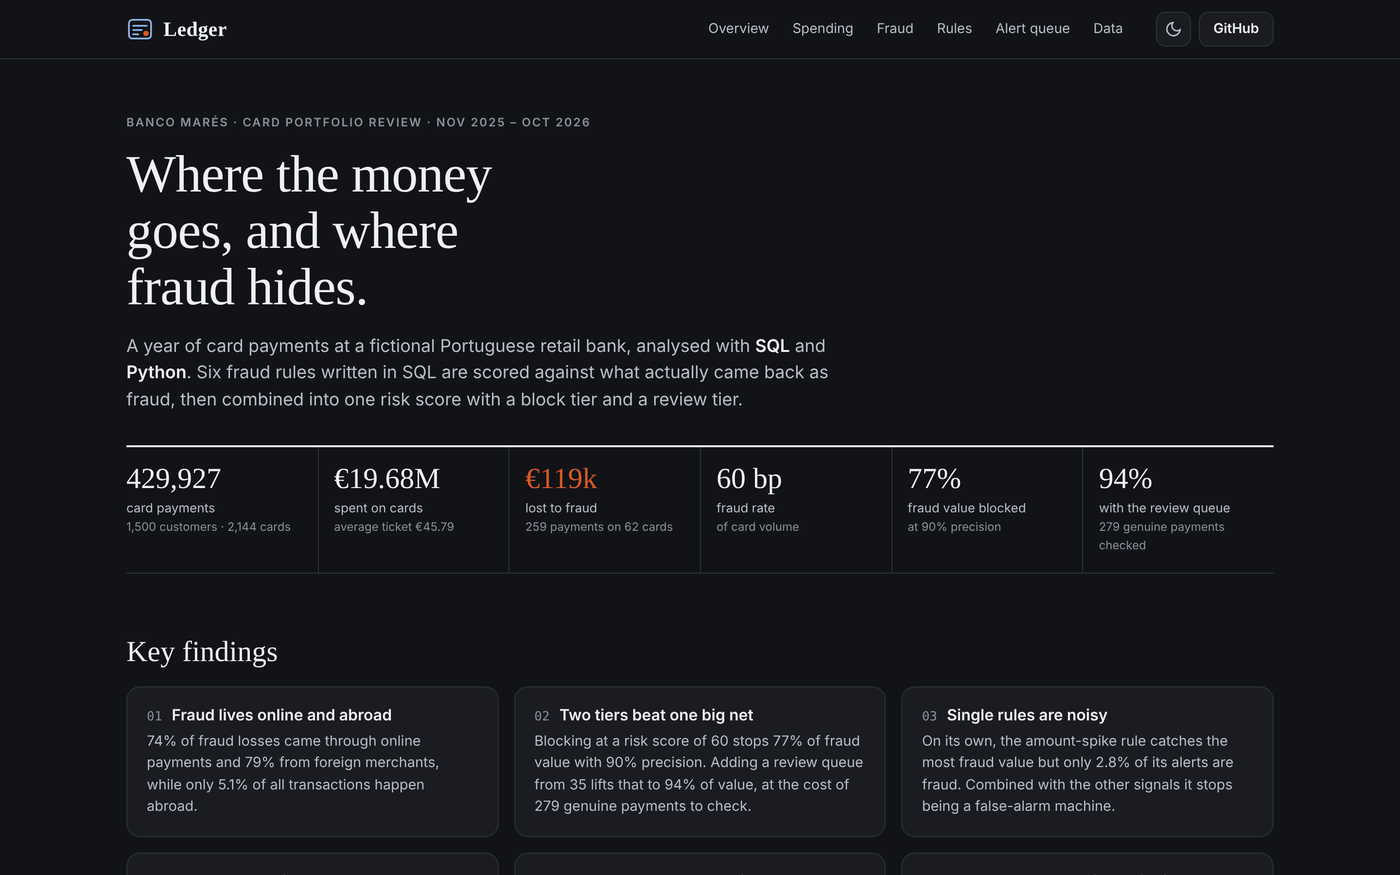
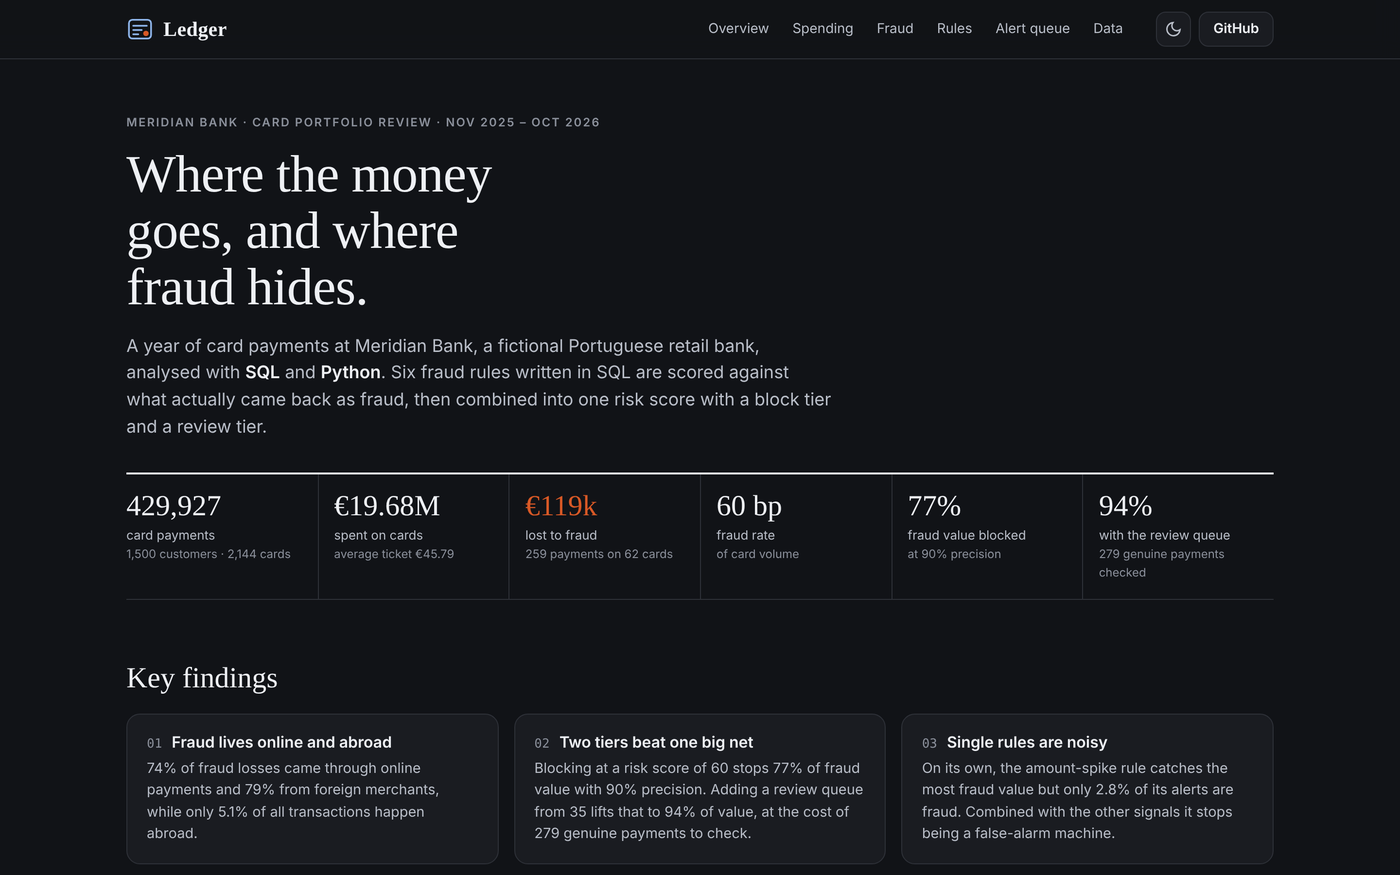
Use Meridian Bank for the mock data

diff --git a/web/index.html b/web/index.html
@@ -36,9 +36,9 @@
 
 <main id="top">
   <section class="hero wrap">
-    <p class="eyebrow">Banco Marés · card portfolio review · <span data-k="period"></span></p>
+    <p class="eyebrow">Meridian Bank · card portfolio review · <span data-k="period"></span></p>
     <h1>Where the money goes, and where fraud hides.</h1>
-    <p class="lede">A year of card payments at a fictional Portuguese retail bank, analysed with <b>SQL</b> and <b>Python</b>. Six fraud rules written in SQL are scored against what actually came back as fraud, then combined into one risk score with a block tier and a review tier.</p>
+    <p class="lede">A year of card payments at Meridian Bank, a fictional Portuguese retail bank, analysed with <b>SQL</b> and <b>Python</b>. Six fraud rules written in SQL are scored against what actually came back as fraud, then combined into one risk score with a block tier and a review tier.</p>
     <div class="kpis" id="kpis"></div>
   </section>
 
@@ -164,7 +164,7 @@
 </main>
 
 <footer class="wrap foot">
-  <p>Ledger <span data-k="version"></span> · Banco Marés and every customer and merchant in it are fictional. Built by <a href="https://diogos7.github.io">Diogo Santos</a>.</p>
+  <p>Ledger <span data-k="version"></span> · Meridian Bank and every customer and merchant in it are fictional. Built by <a href="https://diogos7.github.io">Diogo Santos</a>.</p>
 </footer>
 
 <div class="tooltip" id="tip" role="status" aria-live="polite" hidden></div>

diff --git a/ledger/generate.py b/ledger/generate.py
@@ -1,4 +1,4 @@
-"""Generate the Banco Marés card dataset into SQLite.
+"""Generate the Meridian Bank card dataset into SQLite.
 
 Everything is synthetic and seeded, so the same seed always produces the same
 database. Twelve months of everyday card spending for a few thousand customers,

diff --git a/README.md b/README.md
@@ -6,7 +6,7 @@
 
 Card fraud and transaction analytics in **Python and SQL**. Live report: **[diogos7.github.io/Ledger](https://diogos7.github.io/Ledger/)**
 
-A year of card payments at Banco Marés, a fictional Portuguese retail bank: 430,000 payments from 1,500 customers on 2,100 cards. The analysis answers two questions a card portfolio team would ask:
+A year of card payments at Meridian Bank, a fictional Portuguese retail bank: 430,000 payments from 1,500 customers on 2,100 cards. The analysis answers two questions a card portfolio team would ask:
 
 1. **Where does the money go?** Monthly volume, merchant categories, contactless adoption, when people pay and who spends most.
 2. **Where does fraud hide, and how do we catch it?** Six fraud rules written in SQL are scored against what actually came back as fraud, then combined into one risk score with a block tier and a review tier.
